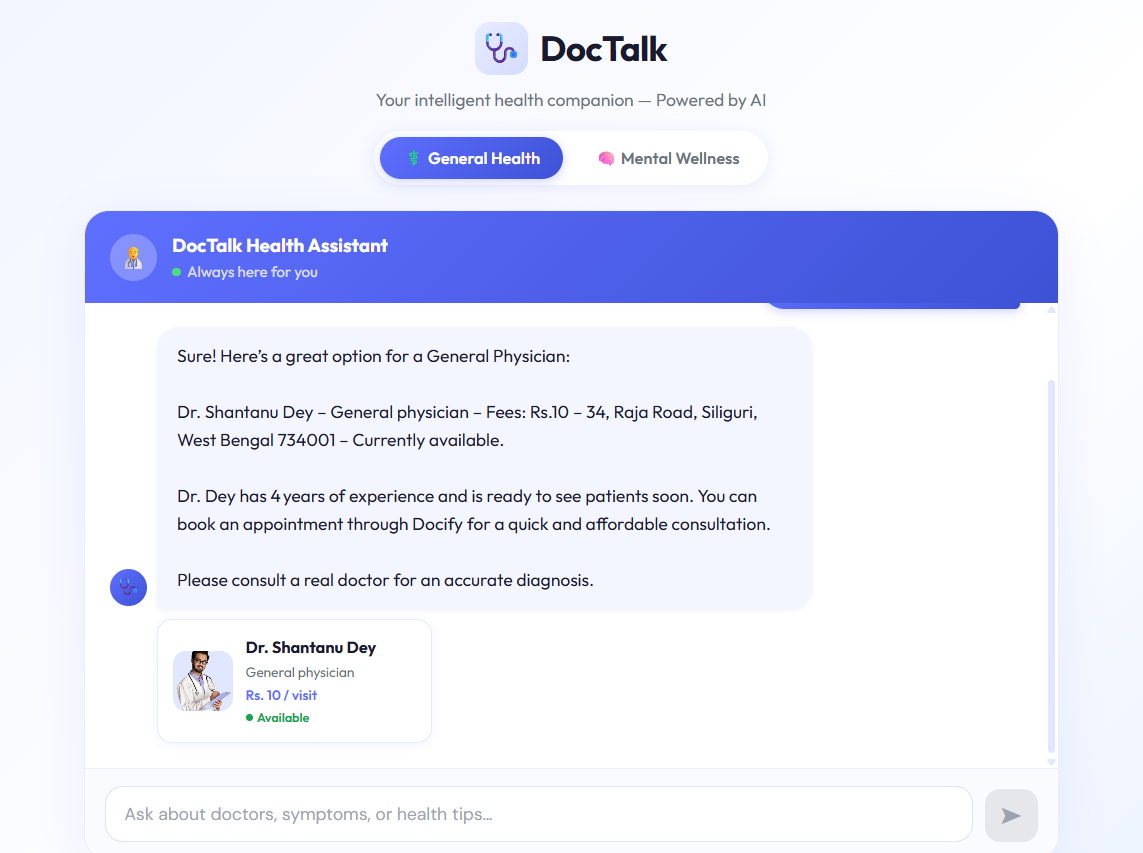
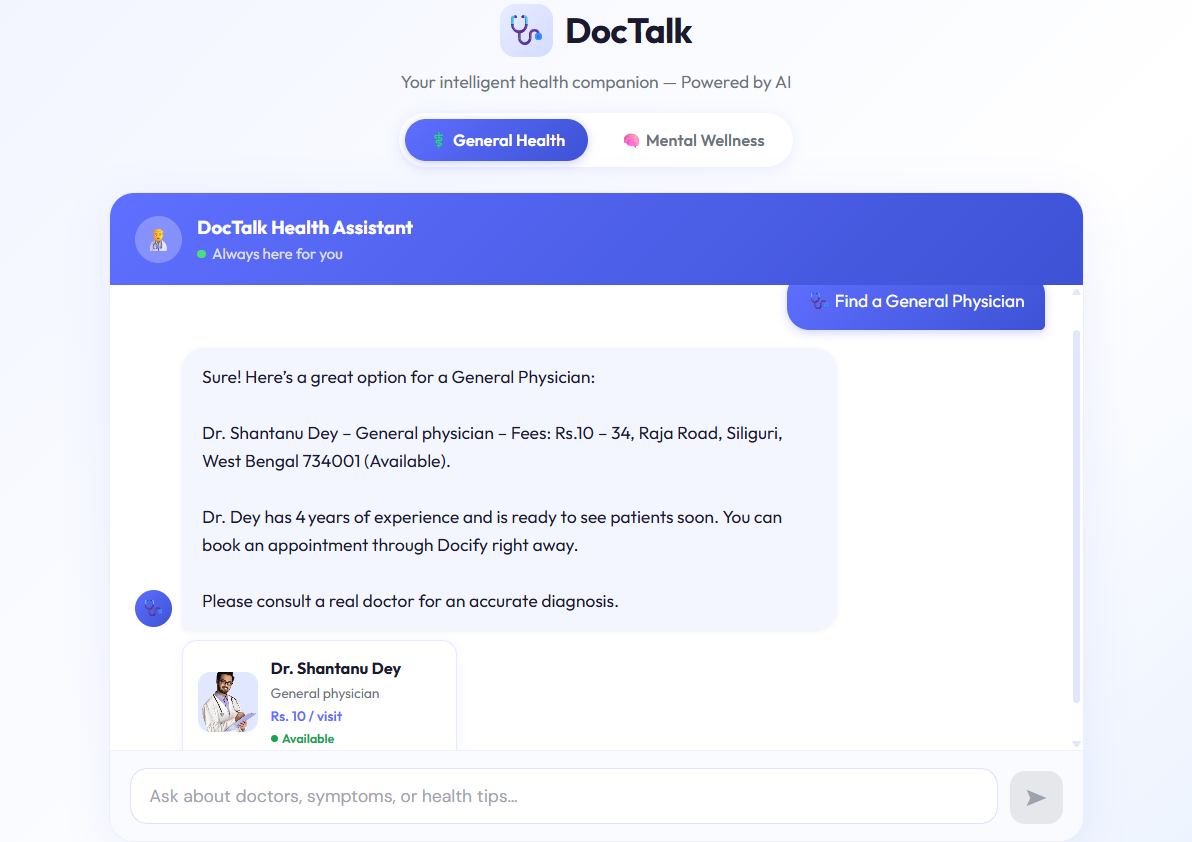
Diagram & README Update

diff --git a/README.md b/README.md
@@ -320,8 +320,9 @@ Three collections cover the whole product. Appointments link to users and doctor
 |---|---|
 | 🌐 **Patient app** | [docify-frontend-yw8c.onrender.com](https://docify-frontend-yw8c.onrender.com) |
 | 📊 **Admin & Doctor panel** | [docify-admin.onrender.com](https://docify-admin.onrender.com) |
-| ⚙ **API** | [https://docify-backend-3yzh.onrender.com] (https://docify-backend-3yzh.onrender.com) |
+| ⚙ **API** | [docify-backend-3yzh.onrender.com](https://docify-backend-3yzh.onrender.com) |
 | 📦 **Source** | [github.com/Oliveya-15/Docify_MERN_Deployed](https://github.com/Oliveya-15/Docify_MERN_Deployed) |
+
 
 > 🔑 Create a free account on the sign-up page to explore the patient app and book a visit. The admin and doctor panel is for staff only.
 > ⚠ Payments run through Razorpay, so use test mode and test cards unless you really mean to pay.
